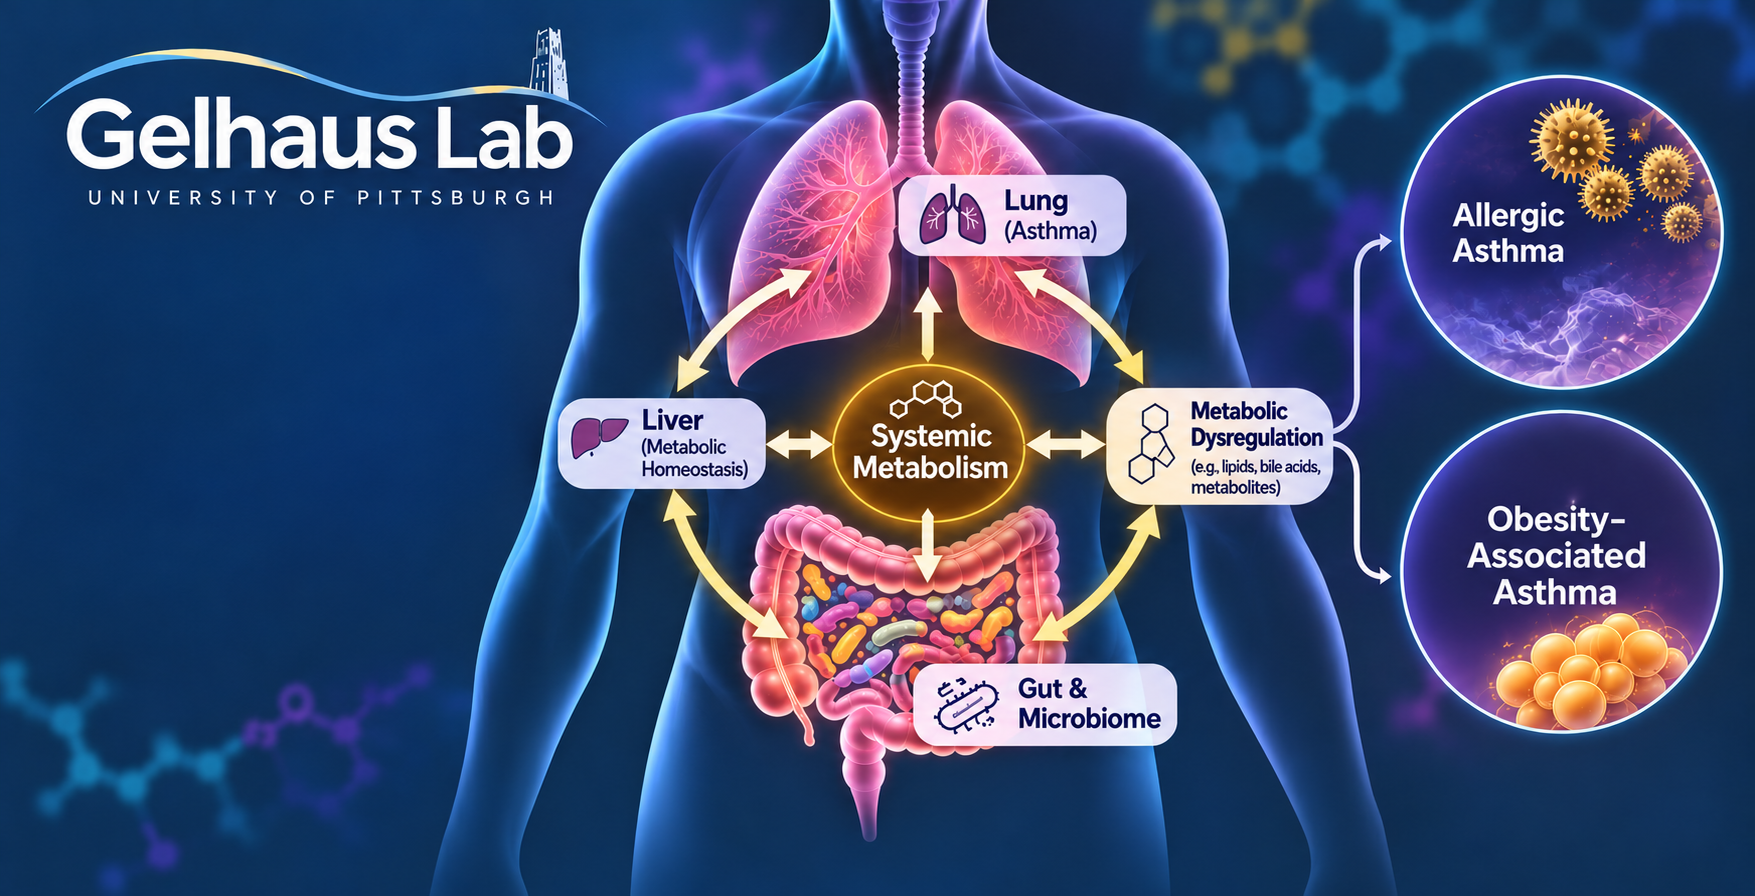
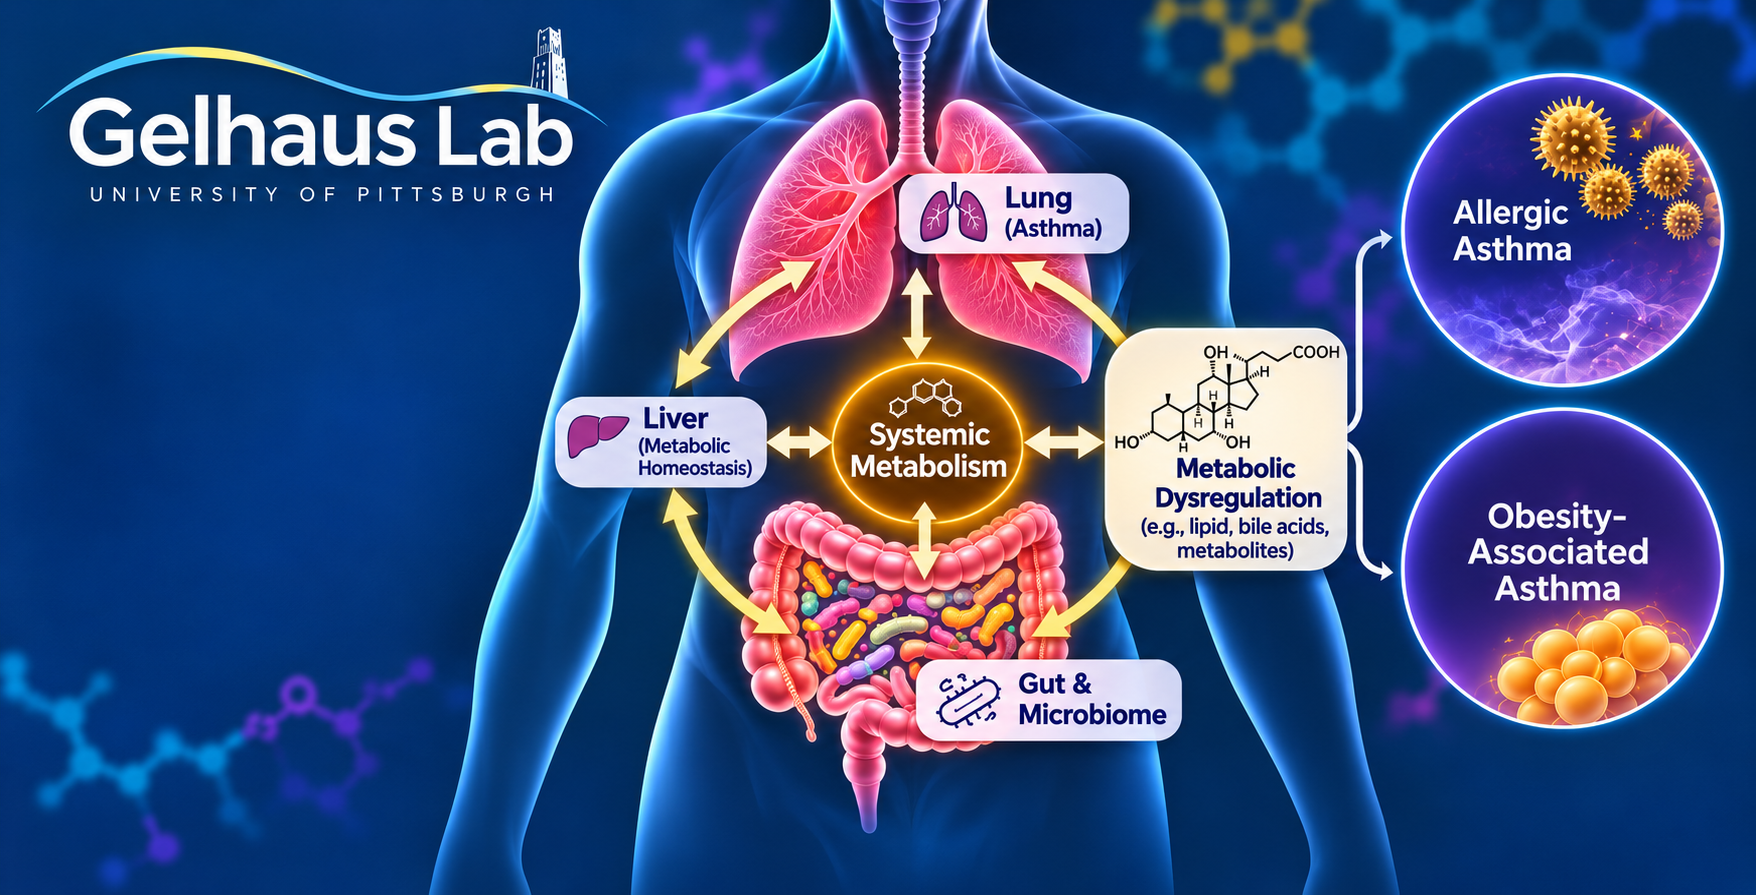
Add files via upload

diff --git a/index.html b/index.html
@@ -195,16 +195,16 @@
       <h2>Research focus</h2>
       <div class="focus">
         <a class="item" href="#research" data-tab="research">
-          <h3>Electrophilic fatty acids</h3>
-          <p>How they form, which enzymes make them, and how they signal in inflammation.</p>
+          <h3>Lung-Liver Interorgan Communication</h3>
+          <p>How asthma and obesity reprogram liver function, and how the gut microbiome, liver, and lung influence each other.</p>
         </a>
         <a class="item" href="#research" data-tab="research">
-          <h3>Electrophiles as therapeutics</h3>
+          <h3>Oxylipin Formation and Signaling</h3>
+          <p>How electrophilic fatty acids and pro-resolving mediators form, signal, and regulate inflammation.</p>
+        </a>
+        <a class="item" href="#research" data-tab="research">
+          <h3>Nitroalkenes as Therapeutics</h3>
           <p>Nitro-oleic acid for obesity-associated asthma, from mouse models to a clinical trial.</p>
-        </a>
-        <a class="item" href="#research" data-tab="research">
-          <h3>Metabolism and lung function</h3>
-          <p>How the gut, liver, and microbiome shape lung function in allergic asthma and obesity-associated asthma.</p>
         </a>
       </div>
     </div>
@@ -219,31 +219,40 @@
     </figure>
 
     <div class="section" style="margin-top:2.5rem">
+      <p>The Gelhaus laboratory is a bioanalytical pharmacology group that uses high-resolution mass spectrometry, biochemistry, and cell and animal models to study how bioactive lipids are made, how they signal, and whether they can be used as treatments. Our work centers on obesity-associated asthma, a form of the disease that responds poorly to standard therapies, and on the metabolic networks that connect the lung to the gut microbiome and the liver.</p>
+    </div>
+
+    <div class="section" style="margin-top:2.5rem">
       <div class="theme">
-        <h3>Formation and signaling of electrophilic fatty acids</h3>
+        <h3>Lung-Liver Interorgan Communication</h3>
         <div>
-          <p>Fatty acid metabolites with an alpha, beta-unsaturated carbonyl were once seen as inactive end products. We showed that they signal. They act without G protein-coupled receptors, suppress NF-kB inflammatory signaling, and activate the Nrf2 antioxidant response.</p>
-          <ul>
-            <li>We showed that 15-hydroxyprostaglandin dehydrogenase (15-PGDH) oxidizes hydroxylated omega-3 fatty acids into electrophiles.</li>
-            <li>We test whether lipoxin A4 forms in macrophages and whether it and its 15-oxo metabolite signal through FPR2 or through receptor-independent routes.</li>
-            <li>We study how nitro-fatty acids redirect carbon flow through central metabolism in macrophages to promote resolution of inflammation.</li>
-          </ul>
+          <p>Asthma is usually treated as a disease of the airway, but people with asthma often have other comorbidities including obesity, cardiovascular disease and even fatty liver disease. Gut dysbiosis can impact the molecular mechanisms underlying asthma and influence how one comorbidity can impact the other. We are interested in the interorgan communication between the lung, liver and the gut in asthma and asthma with obesity. In our preclinical mouse model of asthma and asthma with obesity, we found that changes in systemic metabolism are linked to altered lung mechanics, depend on both host and gut microbial enzymes, and that these pathways converge in the liver (<i>Frontiers in Microbiomes</i>, 2023). We also found that treatment with the bioactive nitroalkene, nitro-oleic acid, was able to reverse changes observed in bile acid metabolism which correlate with improved lung function (<i>Scientific Reports</i>, 2021).</p>
+          <p>These observations led us to ask whether allergic airway disease reprograms liver function. We are investigating how asthma affects hepatic nuclear receptor signaling, drug-metabolizing cytochrome P450 enzymes, and bile acid pathways, and whether these changes in turn influence lung outcomes. This work is supported by an NHLBI R01 on microbial-derived metabolites in obesity-associated asthma, and it is the focus of several grant applications and a collaborative program project on interorgan communication in obesity-related cardiopulmonary disease. We are also exploring whether therapeutics developed for the lung might help treat the liver comorbidities of asthma.</p>
         </div>
       </div>
 
       <div class="theme">
-        <h3>Electrophiles as novel therapeutics</h3>
+        <h3>Oxylipin Formation and Signaling</h3>
         <div>
-          <p>Nitro-oleic acid (NO2-OA, also called CP-6) improved lung function in a mouse model of obese allergic airway disease, with changes in host and microbial metabolism.</p>
-          <p>CP-6 is now in a double-blind, crossover clinical trial in people with obesity and asthma. Each participant receives placebo and CP-6, each for 6 weeks, with a 4-week washout between them. The trial measures lung function with FEV1 and PC20.</p>
+          <p>Oxylipins are oxygenated fatty acids that help regulate inflammation, immunity, and tissue repair. I have studied them for nearly two decades, with a particular interest in electrophilic fatty acids, which carry a reactive chemical group that lets them modify proteins and alter cell signaling. For many years, electrophilic products of arachidonic acid metabolism were assumed to be inactive byproducts. Our work showed that they are signaling molecules that act independently of classical G protein-coupled receptors (<i>Chemico-Biological Interactions</i>, 2015).</p>
+          <p>We showed that the enzyme 15-hydroxyprostaglandin dehydrogenase converts hydroxylated omega-3 fatty acids such as DHA into electrophiles (<i>Journal of Biological Chemistry</i>, 2015), and assisted collaborators working on the orphan dehydrogenase DHRS9, demonstrated that this enzyme produces oxygenated products similar to 15-hydroxyprostaglandin dehydrogenase (<i>Journal of Biological Chemistry</i>, 2022). In addition, we study specialized pro-resolving mediators, a class of oxylipins thought to promote the resolution of inflammation. Our analysis of lipoxin A<sub>4</sub> identified its electrophilic 15-oxo metabolite as a mediator of anti-inflammatory signaling (<i>Journal of Lipid Research</i>, 2025). As part of an international working group, we have also published recommendations for rigorous LC-MS measurement of oxylipins and pro-resolving mediators (<i>Nature Communications</i>, 2023, <i>Science Signaling</i>, 2025), because reliable analysis is essential to this field.</p>
+          <p>Recent studies have focused on sex-based differences of oxylipin formation in asthma. Using our preclinical mouse model of asthma we have observed that although the phenotype of treatment with the soluble epoxide hydrolase inhibitor, AUDA, is the same in males and females, the endotype is different.</p>
         </div>
       </div>
 
       <div class="theme">
-        <h3>Systemic metabolism and lung function</h3>
+        <h3>Nitroalkenes as Therapeutics</h3>
         <div>
-          <p>Our CP-6 work raised a broader question about how host and microbial metabolism affect the lung in obesity. We linked gut microbial composition and function to lung function in obese allergic airway disease. Nitroalkene fatty acids also change bile acid metabolism alongside lung function.</p>
-          <p>The liver metabolizes fatty acids and bile acids, so changes in the liver alter the lipid signals that reach the lung. In lean and obese mouse models of allergic asthma, we measure liver cytochrome P450 enzymes, bile acids, and lipid mediators such as epoxyeicosatrienoic acids alongside lung function.</p>
+          <p>Nitro-fatty acids, or nitroalkenes, are electrophilic lipids that reduce inflammation and promote metabolic resilience. Our early work demonstrated that nitro-conjugated linoleic acid forms in humans after supplementation with <sup>15</sup>N-labeled nitrate and nitrite (<i>Free Radical Biology and Medicine</i>, 2015), and that conjugated linoleic acid changes how people respond to oral nitrite and nitrate (<i>Hypertension</i>, 2017).</p>
+          <p>In our murine asthma model of obese allergic airway disease, treatment with nitro-oleic acid during house dust mite challenge improved lung function and altered both host and microbial metabolism. These findings supported a clinical trial that I co-lead as a PI: a double-blind, placebo-controlled crossover study of nitro-oleic acid (CP-6) in obese individuals with asthma (R61/R33HL157069). Participants receive CP-6 and placebo in separate treatment periods separated by a washout, and the study evaluates lung function endpoints alongside host and microbial metabolism, with some participants also undergoing bronchoscopy. The clinical trial runs in parallel with mouse studies, so that mechanisms identified in animals can be tested in patients. At the cellular level, we are investigating how nitro-fatty acids promote the resolution of inflammation by redirecting carbon flow through central metabolic pathways in macrophages (<i>Frontiers in Physiology</i>, 2025).</p>
+        </div>
+      </div>
+
+      <div class="theme">
+        <h3>Mass Spectrometry in Biomedical Research</h3>
+        <div>
+          <p>Mass spectrometry is both a core tool of our research and a service we provide to the wider scientific community. My training in LC-MS method development for small molecules and lipids shaped the questions we ask, and I direct the Health Sciences Mass Spectrometry Core (MSC) at the University of Pittsburgh. I founded the core in 2017 as the Metabolomics and Lipidomics Core, after securing NIH S10 funding for a Thermo Fisher ID-X tribrid instrument used for untargeted metabolomics and lipidomics and, later, a high-resolution Orbitrap Exploris 240.</p>
+          <p>The <a href="https://msc.pitt.edu" target="_blank" rel="noopener">MSC</a> offers targeted and untargeted metabolomics, lipidomics, stable isotope tracing, and proteomics to investigators across the health sciences. Our team has collaborated on studies in immunology, cancer, microbiome science, cardiometabolic disease, and neuroscience, with publications in journals including <i>Nature</i>, <i>Cell</i>, <i>Immunity</i>, and <i>Nature Cancer</i>. Beyond service, we develop new methods and train students and postdocs in rigorous quantitative analysis. My team and I are committed to helping the community adopt analytical standards that make lipid and metabolite measurements reproducible, so that discoveries made with mass spectrometry hold up.</p>
         </div>
       </div>
 
@@ -413,7 +422,7 @@ window.addEventListener("hashchange", () => show(location.hash.slice(1), false))
       </div>
     </article>`;
 
-  const pi = { name: "Stacy Gelhaus, PhD", role: "Principal Investigator<span class=\"r\">Associate Professor, Department of Pharmacology and Chemical Biology</span><span class=\"r\">Scientific Director, Health Sciences Mass Spectrometry Core</span>", photo: "profile.jpg", email: "gstacy@pitt.edu" };
+  const pi = { name: "Stacy Gelhaus, PhD", role: "Principal Investigator<span class=\"r\">Associate Professor, Department of Pharmacology and Chemical Biology</span><span class=\"r\">Scientific Director, Health Sciences Mass Spectrometry Core</span>", photo: "Stacy%27s%20Headshot.jpg", pos: "50% 20%", email: "gstacy@pitt.edu" };
   let html = `<h3 style="margin-top:1.5rem">Principal Investigator</h3><div class="team-grid">${card(pi)}</div>`;
 
   const current = TEAM.filter(m => (m.group || "Current") === "Current");
